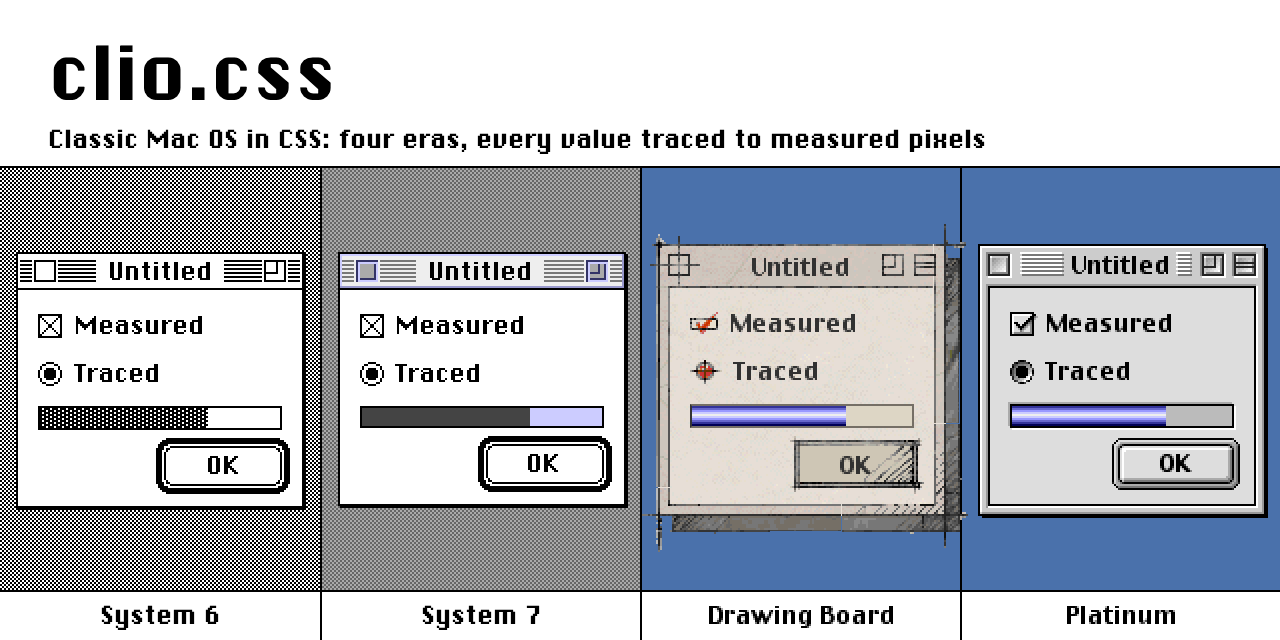
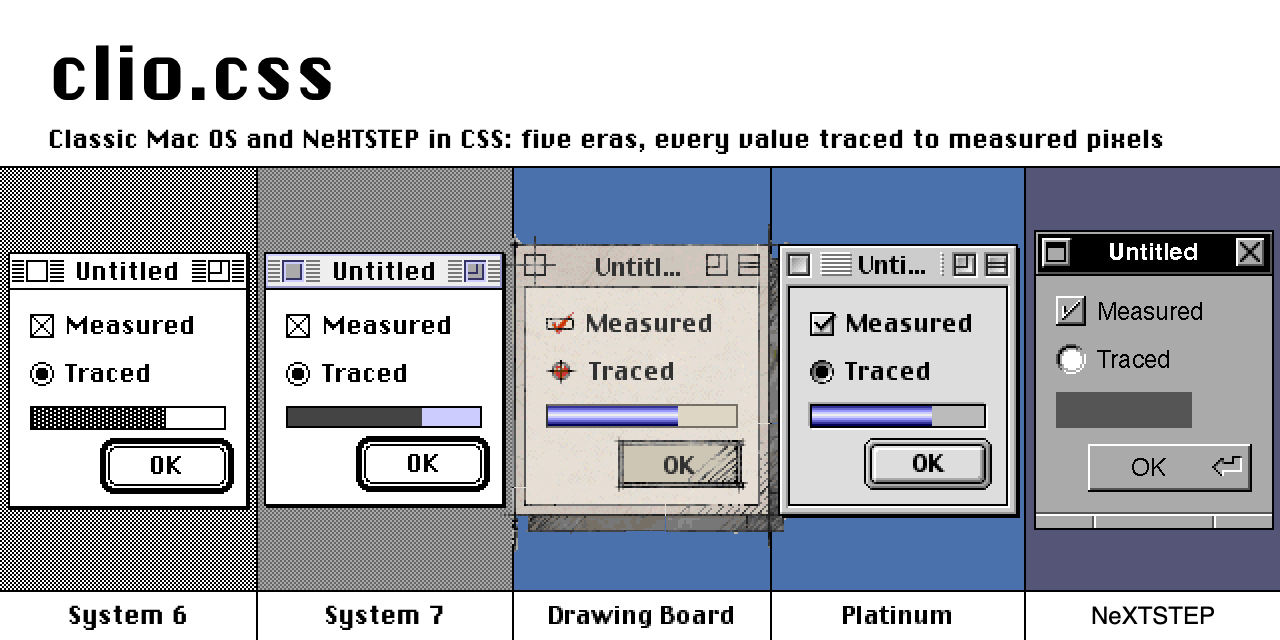
release: 1.1.0 — NeXTSTEP, the README figure and social preview with five eras, the Classic menu fix
37 NeXTSTEP specimens identical to NeXTStep 3.0 frames in Chromium, WebKit and Firefox;
behaviour 215, 215 and 213 checks; outline check and npm test green.

diff --git a/CHANGELOG.md b/CHANGELOG.md
@@ -2,36 +2,41 @@
 
 ## 1.1.0 (2026-11-26, NeXTSTEP)
 
-A fifth era, in a file of its own (owner's decision D14 in ROADMAP-MACOSX.md). The four
-Classic eras are frozen (D7): `dist/clio.css` and the Classic single-era files are 1.0.2's
-bytes except for the version in their banner.
+A fifth era, in a file of its own (owner's decision D14 in ROADMAP-MACOSX.md), and one fix
+to the Classic eras: "LTS" names the Classic line beside clio.wasm, not a freeze (D16).
+Apart from that fix and the version in their banners, `dist/clio.css` and the Classic
+single-era files are 1.0.2's bytes.
 
 - **`data-era="nextstep"`, shipped only as `dist/clio.nextstep.css`** (`clio.css/nextstep`,
-  budget 150 KB minified; 146 KB today). NeXTSTEP 3.3's look on the Classic markup: the menu
-  bar is the vertical main menu titled by its `aria-label`; the collapse box is the
-  miniaturize button and the close box moves right; a window with a zoom box draws the
-  resize bar; `.window.main` is a main window that is not key; panels and attention panels;
-  buttons with the return mark (key window only), switches, radios, text fields, pop-up
-  lists, sliders, boxes, the column browser (`.browser`), the pull-down list (`.pull-down`)
-  and the Workspace dock (`.dock`), which exist only in this file.
-- **Measured** in NeXTStep 3.0 running in Infinite Mac (Infinite Mac has no 3.3; 3.0 is the
-  nearest real 3.x system it runs, and every row names the frame it came from; the owner accepted 3.0 as the source for 3.3's
-  look, D15 in ROADMAP-MACOSX.md). All 27
+  budget 160 KB minified). NeXTSTEP 3.3's look on the Classic markup: the menu bar is the
+  vertical main menu titled by its `aria-label`, its submenus level with its top, a
+  `.torn-off` one with its close button; the collapse box is the miniaturize button and the
+  close box moves right; a window with a zoom box draws the resize bar; `.window.main` is a
+  main window that is not key; panels and attention panels; push buttons (held, on with
+  `aria-pressed`, dimmed) and the return mark (key window only), switches, radios, text
+  fields, pop-up lists, sliders, boxes, the column browser (`.browser`), the pull-down list
+  (`.pull-down`) and the Workspace dock (`.dock`), which exist only in this file.
+- **Measured** in NeXTStep 3.0 running in Infinite Mac: Infinite Mac has no 3.3, and the
+  owner accepted 3.0 as the source for 3.3's look (D15); every row names its frame. All 37
   NeXTSTEP specimens in FIDELITY.md are pixel-identical to the frames in Chromium, WebKit
-  and Firefox; the values ported
-  from AI System 6 that the frames contradicted are corrected (main window, pressed button,
-  switch and radio sizes, pop-up height, menu rows, resize bar, text field corners).
-  Evidence rows for NeXTSTEP: 39 measured, 18 inferred, 8 adapted, 1 third-party.
-- **clio.js** draws NeXT's scroller on the left with both arrows together when the era asks
-  (`--clio-scrollbar-side`, `--clio-scrollbar-arrows`, `--clio-scrollbar-arrow-length`,
-  `--clio-scrollbar-arrow-gap`); the Classic eras set none of them and behave as before
-  (`npm run behaviour`: 207, 207 and 205 checks in Chromium, WebKit and Firefox).
+  and Firefox. Values ported from AI System 6 that the frames contradicted are corrected
+  (main window, held and on buttons, switch and radio sizes, pop-up height, menu rows,
+  resize bar, text field corners, desktop #555577). Evidence rows for NeXTSTEP: 47 measured,
+  13 inferred, 8 adapted, 1 third-party; COVERAGE.md: 23 of its 27 rows measured.
+- **clio.js** draws NeXT's scrollers as measured when the era asks: the vertical one on the
+  left with both arrows at its bottom, the horizontal one with both at its left, each in a
+  17px cell, held arrows one grey lighter (`--clio-scrollbar-side`, `--clio-scrollbar-arrows`,
+  `--clio-scrollbar-arrow-length`, `--clio-scrollbar-arrow-gap`). The Classic eras set none.
+- **Fix, all Classic eras:** a menu item whose button is dimmed (`aria-disabled` on the
+  button rather than the `<li>`) lit up under the pointer in System 6, System 7 and Platinum.
+  It no longer does; `npm run behaviour` checks both forms of dimming (215, 215 and 213
+  checks in Chromium, WebKit and Firefox).
 - **Clio Sans NX**, Liberation Sans 2 (SIL OFL 1.1) subset and renamed by
   `tooling/nx-font.py`: Helvetica's widths where Helvetica is not installed (D3). Control art
   is redrawn from the frames by `tooling/nx-art.py`, which checks each grid against its frame.
-- COVERAGE.md has a NeXTSTEP table against the *NeXTSTEP User Interface Guidelines*, Release 3.
-  Not done: the torn-off submenu, the pull-down list and the Info panel are inferred; the
-  horizontal scroller's arrows and the edited document's close button were not captured.
+- The README figure and the social preview show NeXTSTEP beside the Classic eras.
+- Not measured: the pull-down list (none found in the NeXTStep 3.0 applications tried), a
+  held miniaturize button, and the Open and Save panels as wholes (their parts are).
 - The NeXTSTEP build writes its scroll-bar rules under `html`, not `:root`: in Chromium a
   `:root .x::-webkit-scrollbar-button:vertical:start` rule was ignored where `html .x::…`
   applied. `clio.platinum.css` was checked and draws the same scroll bar as `clio.css`.

diff --git a/README.md b/README.md
@@ -7,7 +7,7 @@
 [![clio.min.css gzip](https://img.shields.io/badge/clio.min.css-36.6%20kB%20gzip-blue)](#install)
 [![dependencies](https://img.shields.io/badge/dependencies-0-brightgreen)](package.json)
 
-<img src="assets/eras@2x.png" width="760" alt="The same window and alert drawn by clio.css in System 6, System 7, Drawing Board and Platinum">
+<img src="assets/eras@2x.png" width="760" alt="The same window and alert drawn by clio.css in System 6, System 7, Drawing Board, Platinum and NeXTSTEP">
 
 The same markup in four eras, rendered by `dist/clio.css` in Chromium
 ([`tooling/readme-eras.mjs`](tooling/readme-eras.mjs); 1x: [`assets/eras.png`](assets/eras.png)).
@@ -47,7 +47,7 @@ npm install clio.css
 | `dist/clio.system7.css` | System 7 (colour) as the page default | 113 kB | 20.1 kB |
 | `dist/clio.drawingboard.css` | Drawing Board as the page default | 191 kB | 33.2 kB |
 | `dist/clio.platinum.css` | Platinum as the page default | 152 kB | 27.0 kB |
-| `dist/clio.nextstep.css` | NeXTSTEP 3.3 (its own file, never in `clio.css`) | 146 kB | 25.4 kB |
+| `dist/clio.nextstep.css` | NeXTSTEP 3.3 (its own file, never in `clio.css`) | 153 kB | 26.0 kB |
 
 Sizes are the `*.min.css` builds (1.0.2; `clio.nextstep.css` 1.1.0; gzip); fonts and art load separately.
 `dist/components.json` is the machine-readable index: selectors, tokens, markup and
@@ -111,8 +111,8 @@ window that is not key. Three components exist only there: `.browser` (the colum
 `.pull-down` and `.dock`. With clio.js the scrollers sit on the left with both arrows
 together, as measured; without it the browser keeps its own bar on the right. Helvetica is
 named locally; elsewhere Clio Sans NX (Liberation Sans 2, OFL, renamed) keeps its widths.
-The four Classic eras are unchanged: `clio.css` and the Classic files are the 1.0.2 bytes
-apart from the version in their banner.
+The Classic files gain only one fix in 1.1.0 (a dimmed menu item no longer lights under the
+pointer); NeXTSTEP never enters `clio.css`.
 
 ## Components
 
@@ -306,7 +306,7 @@ with captures of each era. From [FIDELITY.md](FIDELITY.md) (run of 2026-11-26):
 | Drawing Board | Mac OS 8.5 + 8.5b6 theme in Infinite Mac | 52 of 54 |
 | Platinum | Mac OS 9.0 in Infinite Mac | 55 of 55 |
 | Platinum | GUIdebook Mac OS 9.0 captures | 7 of 7 |
-| NeXTSTEP | NeXTStep 3.0 in Infinite Mac | 27 of 27 |
+| NeXTSTEP | NeXTStep 3.0 in Infinite Mac | 37 of 37 |
 
 The two Drawing Board specimens below 100% are the open pop-up menu (97.3%), whose text is
 antialiased over the paper. The same file has the WebKit, Firefox, 2x and 3x results.

diff --git a/FIDELITY.md b/FIDELITY.md
@@ -244,6 +244,16 @@ browser's Helvetica cannot match it (D3); its rows are checked by eye.
 | nx-button-on | 59×24 | 100.0% | 100.0% | 0.0% | 0 |
 | nx-box-corner | 11×11 | 100.0% | 100.0% | 0.0% | 0 |
 | nx-slider | 170×16 | 100.0% | 100.0% | 0.0% | 0 |
+| nx-tornoff-left | 11×26 | 100.0% | 100.0% | 0.0% | 0 |
+| nx-tornoff-right | 26×24 | 100.0% | 100.0% | 0.0% | 0 |
+| nx-panel-top | 10×24 | 100.0% | 100.0% | 0.0% | 0 |
+| nx-panel-foot | 12×10 | 100.0% | 100.0% | 0.0% | 0 |
+| nx-box-plain | 8×8 | 100.0% | 100.0% | 0.0% | 0 |
+| nx-close-held | 15×15 | 100.0% | 100.0% | 0.0% | 0 |
+| nx-close-edited | 15×15 | 100.0% | 100.0% | 0.0% | 0 |
+| nx-js-hscroller | 60×19 | 100.0% | 100.0% | 0.0% | 0 |
+| nx-js-arrow-held | 16×16 | 100.0% | 100.0% | 0.0% | 0 |
+| nx-button-held | 78×24 | 100.0% | 100.0% | 0.0% | 0 |
 | nx-close | 27×23 | 100.0% | 100.0% | 0.0% | 0 |
 | nx-titlebar-main | 16×23 | 100.0% | 100.0% | 0.0% | 0 |
 | nx-popup | 130×20 | 100.0% | 100.0% | 0.0% | 0 |
@@ -288,8 +298,8 @@ its scroll-bar specimens load clio.js, whose element bars take the same rules.
 Each line is that engine's last run, dated; a run older than the tables above covers
 fewer specimens.
 
-- WebKit (run 2026-11-26): 193 of 200 identical; not identical: s7-popup-disabled (96.1%), db-js-popup-open (97.3%), db-popup-open (97.3%), nx-ais6-default-ok (63.8%), nx-ais6-scroll-thumb (76.7%), nx-ais6-popup-end (34.2%), nx-ais6-checkbox (24.3%)
-- Firefox (run 2026-11-26): 190 of 195 identical; not identical: db-js-popup-open (97.2%), nx-ais6-default-ok (63.8%), nx-ais6-scroll-thumb (9.6%), nx-ais6-popup-end (29.3%), nx-ais6-checkbox (24.3%)
+- WebKit (run 2026-11-26): 203 of 210 identical; not identical: s7-popup-disabled (96.1%), db-js-popup-open (97.3%), db-popup-open (97.3%), nx-ais6-default-ok (63.8%), nx-ais6-scroll-thumb (76.7%), nx-ais6-popup-end (34.2%), nx-ais6-checkbox (24.3%)
+- Firefox (run 2026-11-26): 200 of 205 identical; not identical: db-js-popup-open (97.2%), nx-ais6-default-ok (63.8%), nx-ais6-scroll-thumb (9.6%), nx-ais6-popup-end (29.3%), nx-ais6-checkbox (24.3%)
 - 2x: Chromium 150/155 (run 2026-11-16), WebKit 147/155 (run 2026-11-16), Firefox 142/150 (run 2026-11-16)
 - 3x: Chromium 150/155 (run 2026-11-16), WebKit 142/155 (run 2026-11-16), Firefox 130/150 (run 2026-11-16)
 
